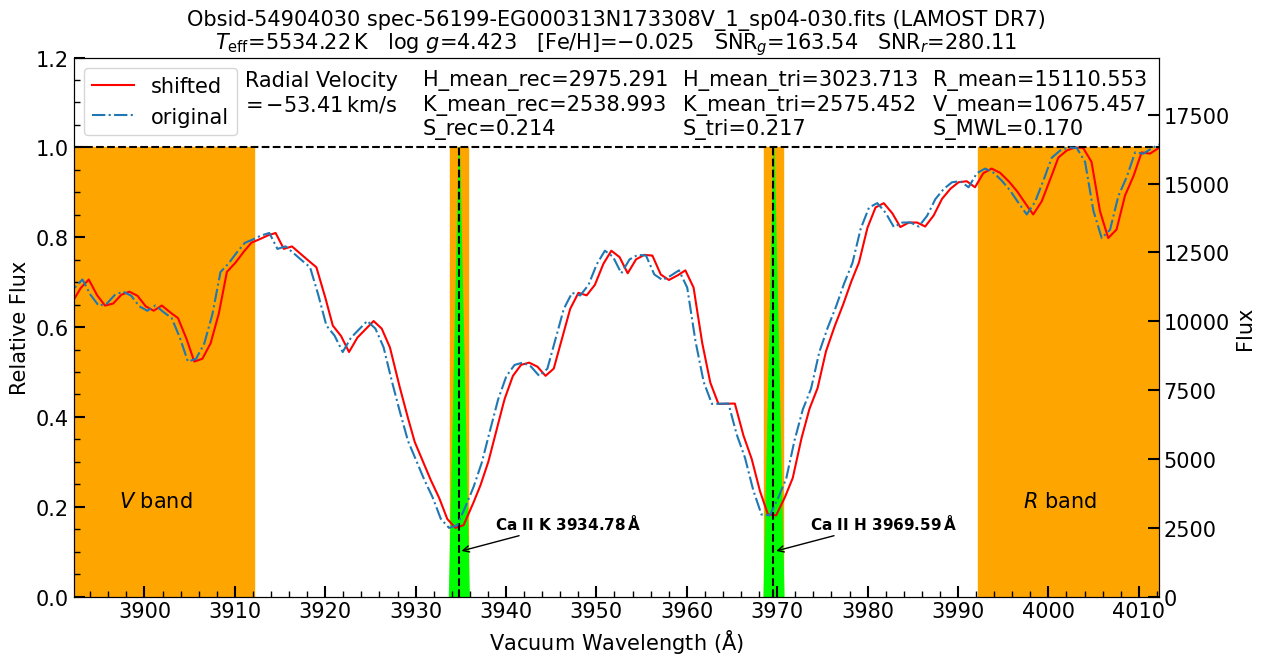
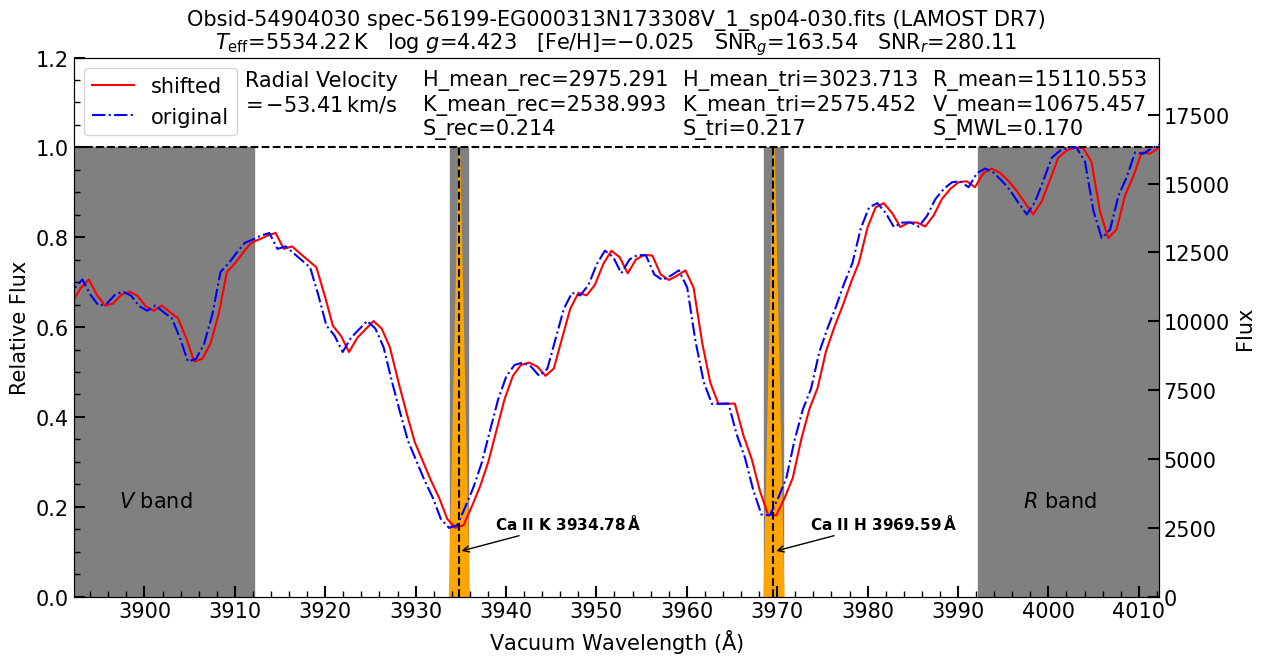
cals

diff --git a/cals/calc_s.py b/cals/calc_s.py
@@ -298,8 +298,8 @@ class CaIISindex:
         fig1 = ax1.plot(self.all_band,plot_flux/max(plot_flux),color='red',label='shifted',linewidth='1.5')
         ax1.plot([self.L_V-10,self.L_R+10],[1,1],linestyle='--',color='black')
         ax2 = ax1.twinx()
-        fig2 = ax2.plot(self.wavelen,self.flux,label='original',linewidth='1.5',linestyle='-.')
-        c1 = 'lime'
+        fig2 = ax2.plot(self.wavelen,self.flux,label='original',linewidth='1.5',linestyle='-.',color='blue')
+        c1 = 'gray'
         ax1.fill_between([self.L_R-10,self.L_R+10],[1,1],[0,0],color=c1)
         ax1.fill_between([self.L_V-10,self.L_V+10],[1,1],[0,0],color=c1)
         ax1.fill_between( [self.L_H-1,self.L_H+1], [1,1],[0,0],color=c1)
